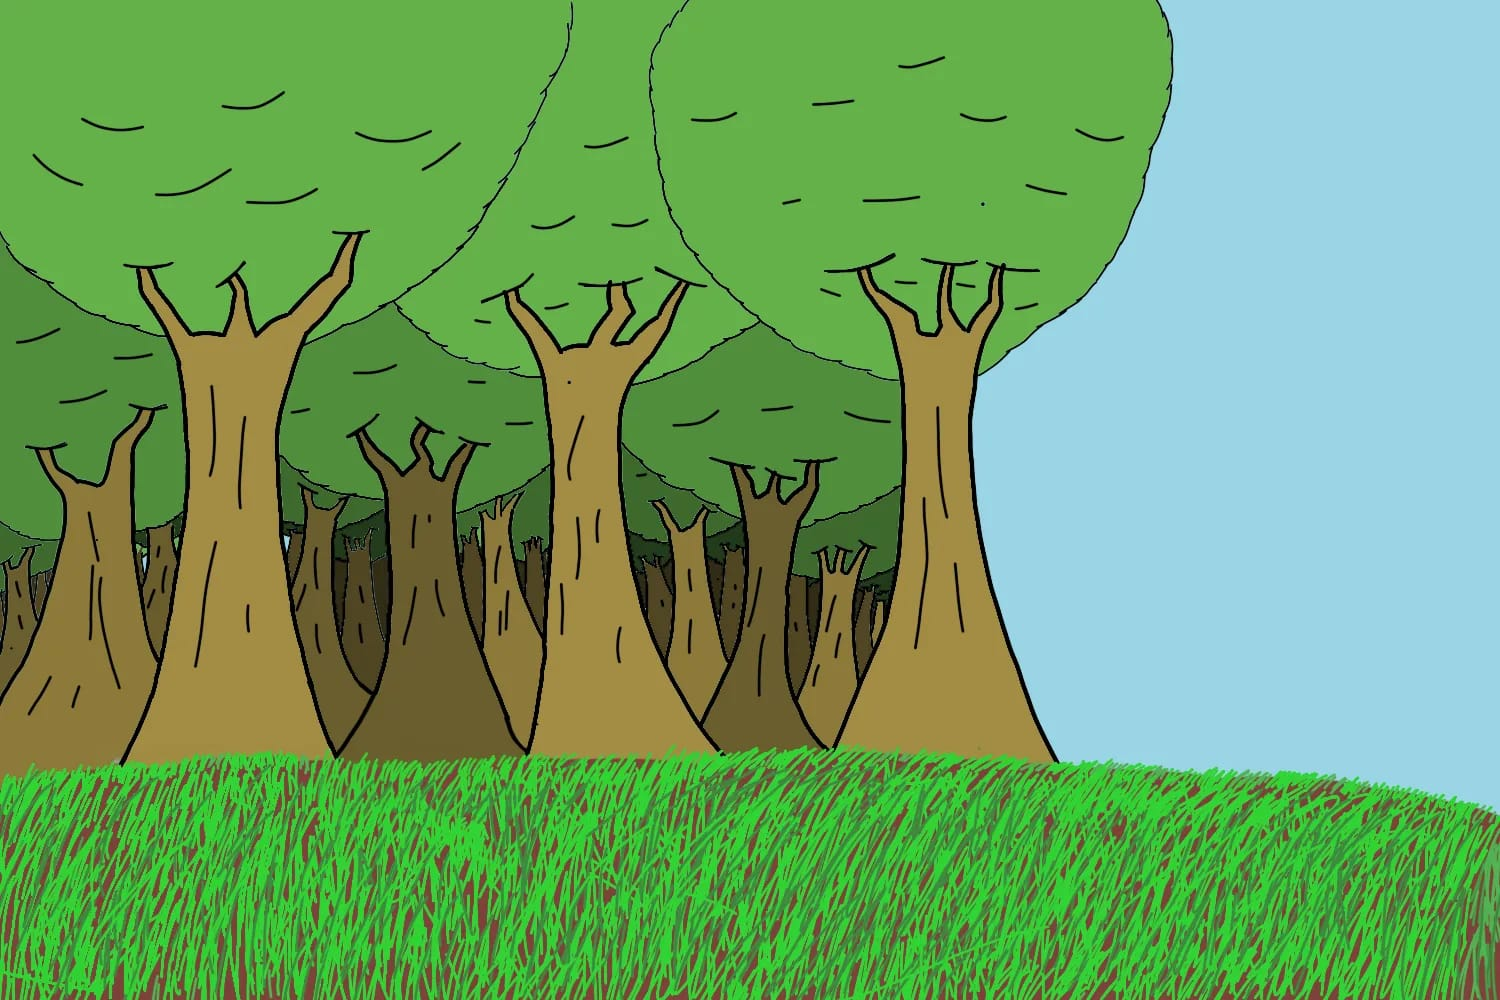
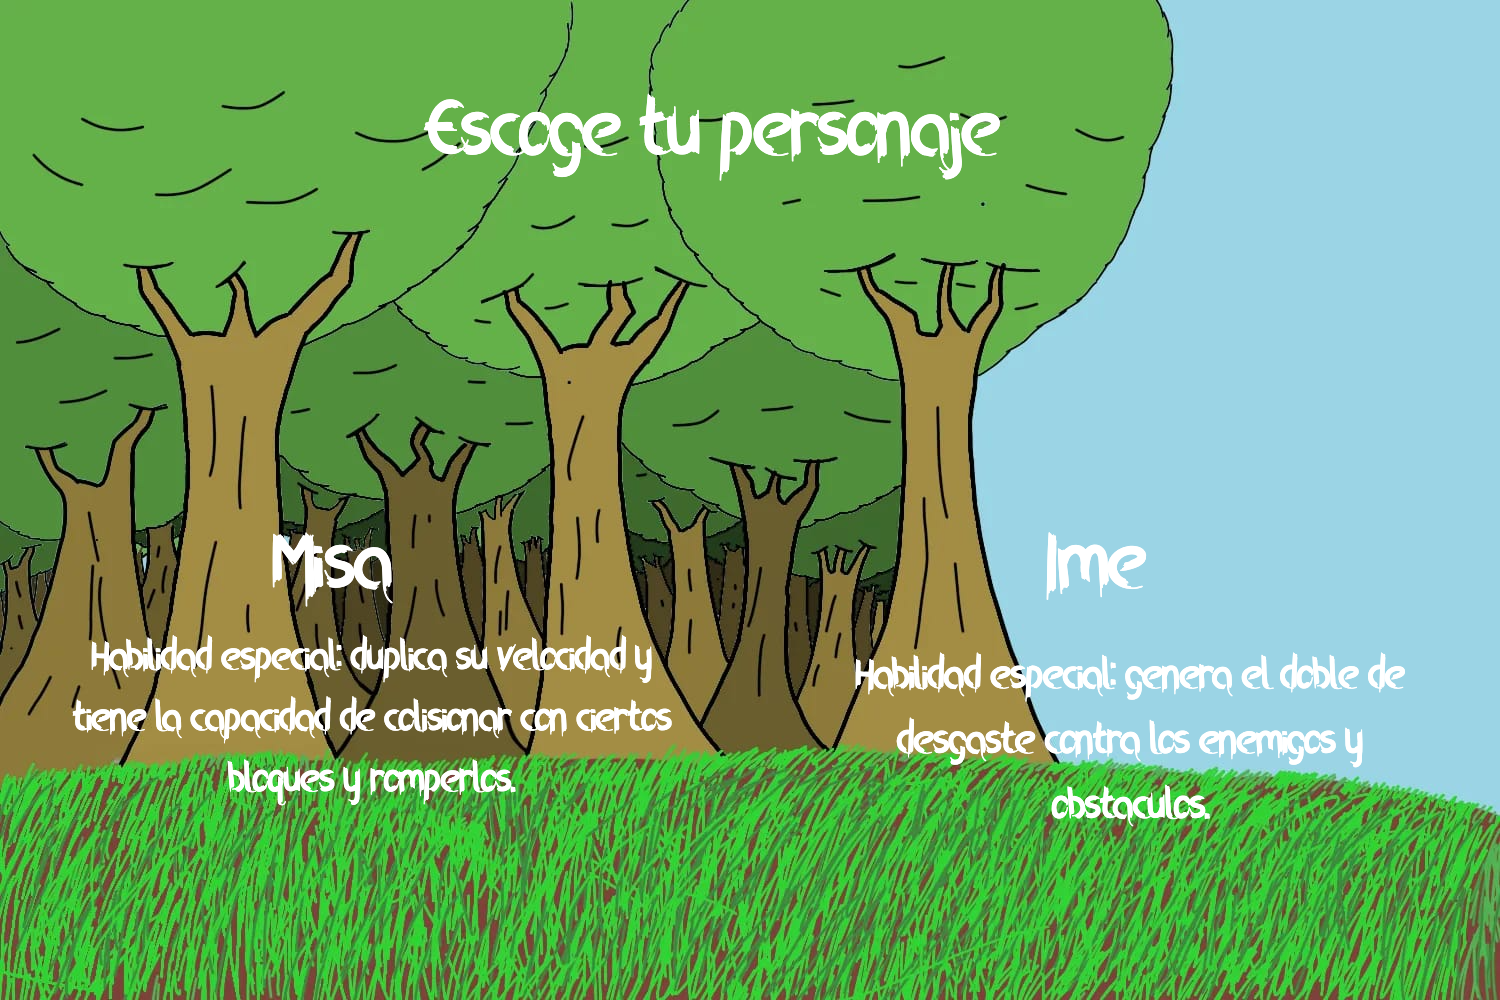
Menus terminados

diff --git a/CharacterButton.java b/CharacterButton.java
@@ -1,5 +1,6 @@
-import greenfoot.*;
-public class IdMainCharacter extends Actor
+import greenfoot.*;  // (World, Actor, GreenfootImage, Greenfoot and MouseInfo)
+
+public class CharacterButton extends Actor
 {
     private static final int MAX_ID_COUNTER = 15;
     
@@ -16,8 +17,10 @@ public class IdMainCharacter extends Actor
     private int character;
     
     private GreenfootImage [][]id;
-    public IdMainCharacter()
-    {
+    
+    public CharacterButton(int idCharacter){
+        character = idCharacter;
+       
         id = new GreenfootImage [2][MAX_ID_COUNTER];
         id[MISA][0] = new GreenfootImage("images/ID_0_0.png");
         id[MISA][1] = new GreenfootImage("images/ID_0_1.png");
@@ -49,41 +52,60 @@ public class IdMainCharacter extends Actor
         id[IME][12] = new GreenfootImage("images/ID_1_12.png");
         id[IME][13] = new GreenfootImage("images/ID_1_13.png");
         id[IME][14] = new GreenfootImage("images/ID_1_14.png");
+        
+        
+        id[MISA][0].scale(96,96);
+        id[MISA][1].scale(96,96);
+        id[MISA][2].scale(96,96);
+        id[MISA][3].scale(96,96);
+        id[MISA][4].scale(96,96);
+        id[MISA][5].scale(96,96);
+        id[MISA][6].scale(96,96);
+        id[MISA][7].scale(96,96);
+        id[MISA][8].scale(96,96);
+        id[MISA][9].scale(96,96);
+        id[MISA][10].scale(96,96);
+        id[MISA][11].scale(96,96);
+        id[MISA][12].scale(96,96);
+        id[MISA][13].scale(96,96);
+        id[MISA][14].scale(96,96);
+        id[IME][0].scale(96,96);
+        id[IME][1].scale(96,96);
+        id[IME][2].scale(96,96);
+        id[IME][3].scale(96,96);
+        id[IME][4].scale(96,96);
+        id[IME][5].scale(96,96);
+        id[IME][6].scale(96,96);
+        id[IME][7].scale(96,96);
+        id[IME][8].scale(96,96);
+        id[IME][9].scale(96,96);
+        id[IME][10].scale(96,96);
+        id[IME][11].scale(96,96);
+        id[IME][12].scale(96,96);
+        id[IME][13].scale(96,96);
+        id[IME][14].scale(96,96);
     }
     
-    public void act()
-    {
-        checkCharacter();
-        animation();
-    }
-    
-    private void animation()
-    {
-        if(currentImage == MAX_ID_COUNTER-1)
-        {
+    private void animation(){
+        if(currentImage == MAX_ID_COUNTER-1){
             timeDoNothing=0;
             currentImage=0;
         }
         
-        if(currentImage == 4 || currentImage == 6 && timeDoNothing > 45 )
-        {
-            if (controlChange == false)
-            {
+        if(currentImage == 4 || currentImage == 6 && timeDoNothing > 45 ){
+            if (controlChange == false){
                 timeDoNothing=0;
                 controlChange = true;
             }
-            else
-            {
+            else{
                 currentImage = (currentImage + 1) % MAX_ID_COUNTER;
                 imageRepetition = 0;
                 controlChange = false;
             }
         }
         
-        if(imageRepetition>=4)
-            {
-                if(timeDoNothing >40)
-                {
+        if(imageRepetition>=4){
+                if(timeDoNothing >40){
                     imageRepetition=0;
                     counterAnimation++;
                     if(counterAnimation >= MAX_ID_COUNTER)
@@ -97,10 +119,16 @@ public class IdMainCharacter extends Actor
         imageRepetition++;        
     }
     
-    private void checkCharacter()
-    {
-        character = getWorldOfType(ScrollingWorld.class).getCharacter();
-        if (character == IME+1)
-            character=IME;
+    public void act(){
+        animation();
+        checkClick();
     }
+    
+    public void checkClick(){
+        if(Greenfoot.mouseClicked(this))
+                Greenfoot.setWorld(new Testing(character));
+            
+    }
+    
+    
 }

diff --git a/Testing.java b/Testing.java
@@ -3,11 +3,12 @@ public class Testing extends ScrollingWorld
 {
     private static final int WORLD_WIDTH = 2016;
     private static final int WORLD_HEIGHT = 608;
-    
-    
-    public Testing()
+
+    public Testing(int idCharacter)
     {
         super(WORLD_WIDTH, WORLD_HEIGHT);
+        if (idCharacter != 0)
+            idCharacter =2;
         for(int i = 0; i<63;i++)
         {
             addObject(new Grass(), 16+BLOCK_SIZE*i, WORLD_HEIGHT-(BLOCK_SIZE/2)*3);
@@ -22,14 +23,13 @@ public class Testing extends ScrollingWorld
         addObject(new Jokeis(), 16+BLOCK_SIZE*30, WORLD_HEIGHT-(BLOCK_SIZE/2)*3-BLOCK_SIZE);
 
         
-        
         character = new MainCharacter(characterId);
         addObject(character, 50,50);
-        
+
         bar = new HealthBar(character.getHealth(),100);
         powerUpBar = new PowerUpBar(character.getPowerUpQuantity(),100, characterId);
         inventory = new Inventory();
-        
+
         addObject(new IdMainCharacter(), (BLOCK_SIZE/2)*3, SCROLL_HEIGHT-BLOCK_SIZE/2-BLOCK_SIZE);
         addObject(inventory, BLOCK_SIZE*3, SCROLL_HEIGHT-BLOCK_SIZE/2);
         addObject(new Cursor(), (BLOCK_SIZE/2)*3, SCROLL_HEIGHT-BLOCK_SIZE/2);
@@ -38,6 +38,6 @@ public class Testing extends ScrollingWorld
         for(int i = 1; i<= 3; i++)
             addObject(new JokeisIndicator(i), 16+BLOCK_SIZE*4+BLOCK_SIZE*i, SCROLL_HEIGHT-(BLOCK_SIZE/2)*3);
         addObject(new Score(), 0,0);
-        
+
     }
 }

diff --git a/ChooseYourCharacter.java b/ChooseYourCharacter.java
@@ -9,5 +9,7 @@ public class ChooseYourCharacter extends Menu
         setBackground(bg);
         
         addObject(new MenuButton(3,1), 508, 360);
+        addObject(new CharacterButton(0),134, 160);
+        addObject(new CharacterButton(1),440, 160);
     }
 }

diff --git a/HowToPlay.java b/HowToPlay.java
@@ -8,6 +8,7 @@ public class HowToPlay extends Menu
         bg.scale(600,400);
         setBackground(bg);
         
+        
         addObject(new MenuButton(3,1), 508, 360);
     }
 }
